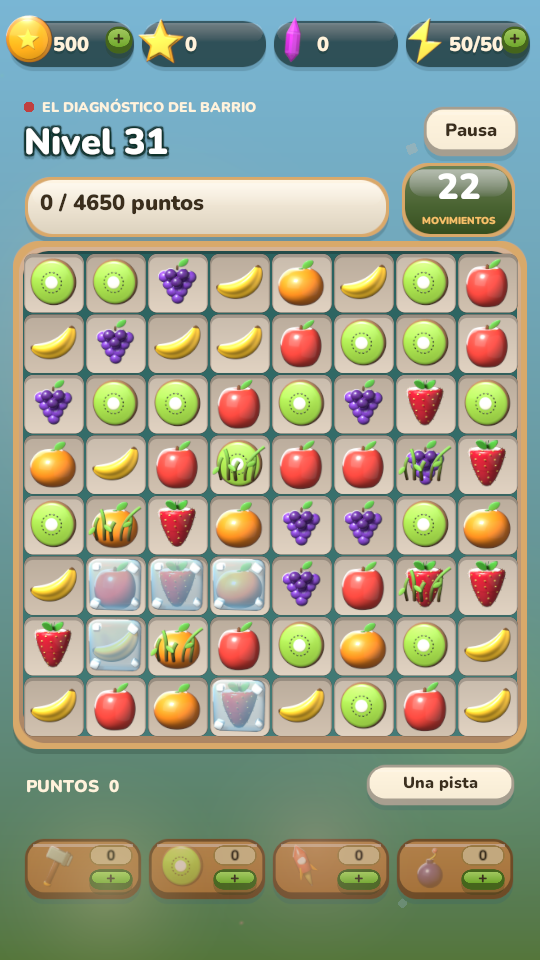
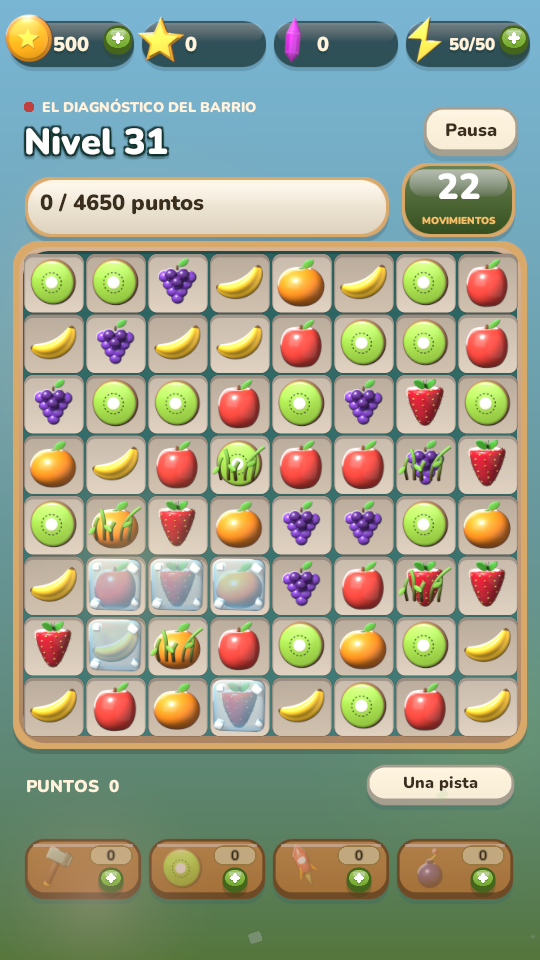
FrutiCity 2.2.1: registro de version
El codigo va en el repositorio del juego (FrutiCity/, commit 398f17d).

Queda anotado el aviso que ya ha costado tres arreglos: la esquina del
contador de rayos es la mas fragil de la barra, porque es el unico con dos
numeros. Cada vez que se toque el ancho de la fila hay que volver a mirarlo.

diff --git a/docs/fruticity-2/CHANGELOG.md b/docs/fruticity-2/CHANGELOG.md
@@ -1,5 +1,19 @@
 # FrutiCity 2 — cambios
 
+## 2.2.1 — los signos de más, dibujados
+
+`bundleVersion` 2.2.0 → **2.2.1**, `AndroidBundleVersionCode` 4 → 5. Etiqueta `v2.2.1`.
+
+El `+` era **un carácter de la fuente**, y un más tipográfico está pensado para leerse *dentro de una frase*: es fino, se apoya en la línea base y no está centrado en su caja. En un círculo de 28 px salía borroso y descolgado.
+
+`UiKit.PlusButton` lo **dibuja**: dos barras redondeadas, centradas de verdad, con sombra propia y brillo arriba. Nítido a cualquier tamaño porque no depende del renderizado de texto.
+
+**Y el arreglo destapó otro**: al quitar el ajuste de línea, «50/50» dejó de partirse pero empezó a meterse **por debajo** del `+`. Baja a cuerpo 17, y sólo ese contador: los rayos son el único con dos números, y encoger los cuatro para que quepa el más largo dejaría los otros tres pequeños sin motivo.
+
+Es la tercera vez que la misma esquina da guerra. **Cada vez que se toque el ancho de la fila hay que volver a mirar el contador de rayos**, que es el que más caracteres lleva.
+
+151/151 EditMode y build de Windows correcto.
+
 ## 2.2.0 — cristales, cuatro monedas y la historia enganchada
 
 `bundleVersion` 2.1.0 → **2.2.0**, `AndroidBundleVersionCode` 3 → 4. Etiqueta `v2.2.0` en los dos repositorios. Sigue siendo **estable y autónoma, sin Firebase**.
